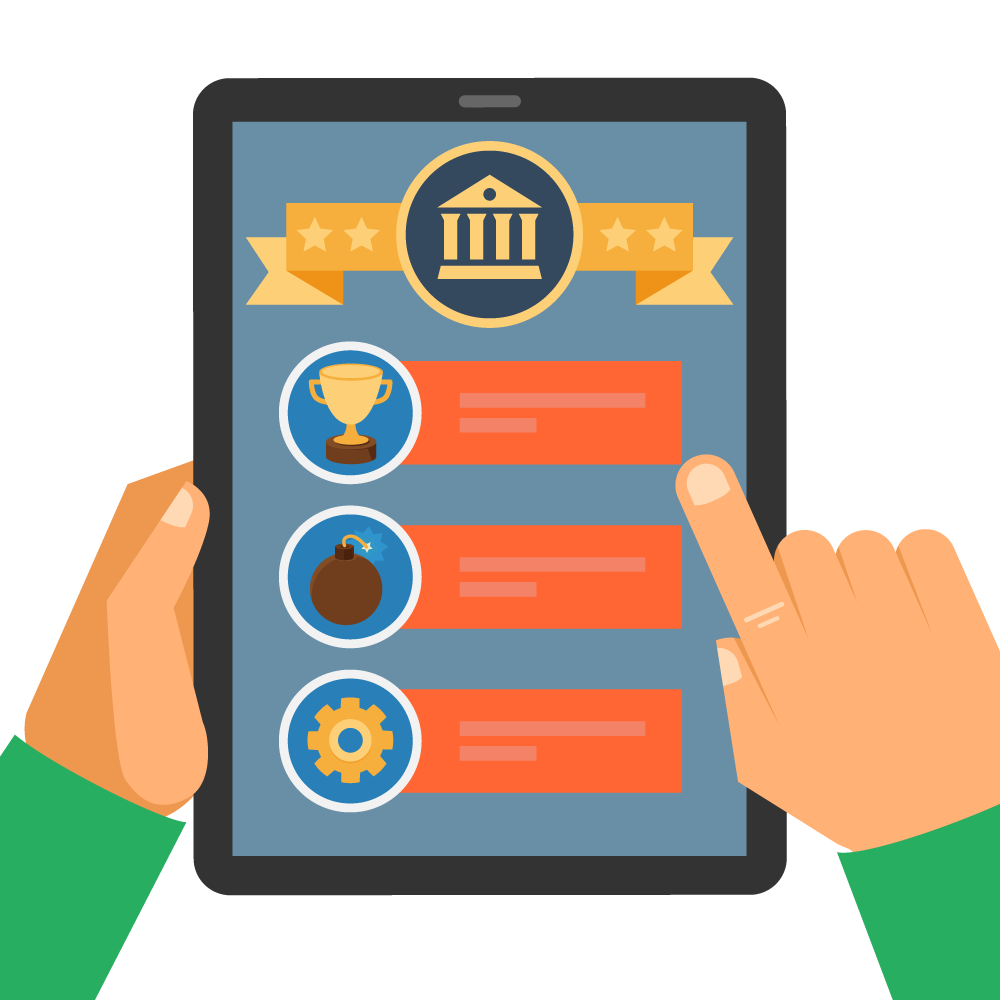
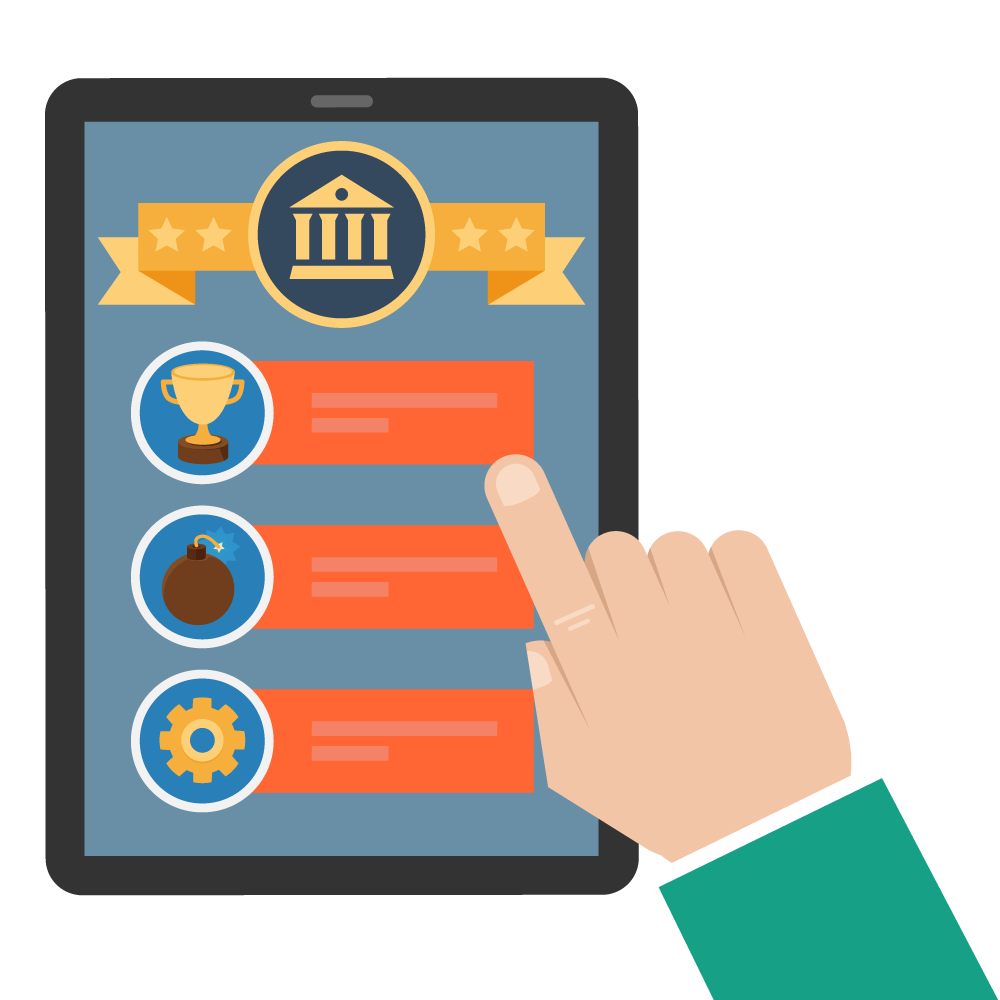
updated last feature, added mobile bus station gfx

diff --git a/public/js/views/home/index.html b/public/js/views/home/index.html
@@ -70,7 +70,7 @@
 
       <div class="row featurette">
         <div class="col-md-5">
-          <img class="featurette-image img-responsive" alt="500x500" src="http://placehold.it/500x500">
+          <img class="featurette-image img-responsive" alt="500x500" src="/img/landingpage/mobile_busstop.png">
         </div>
         <div class="col-md-7">
           <h2 class="featurette-heading">
